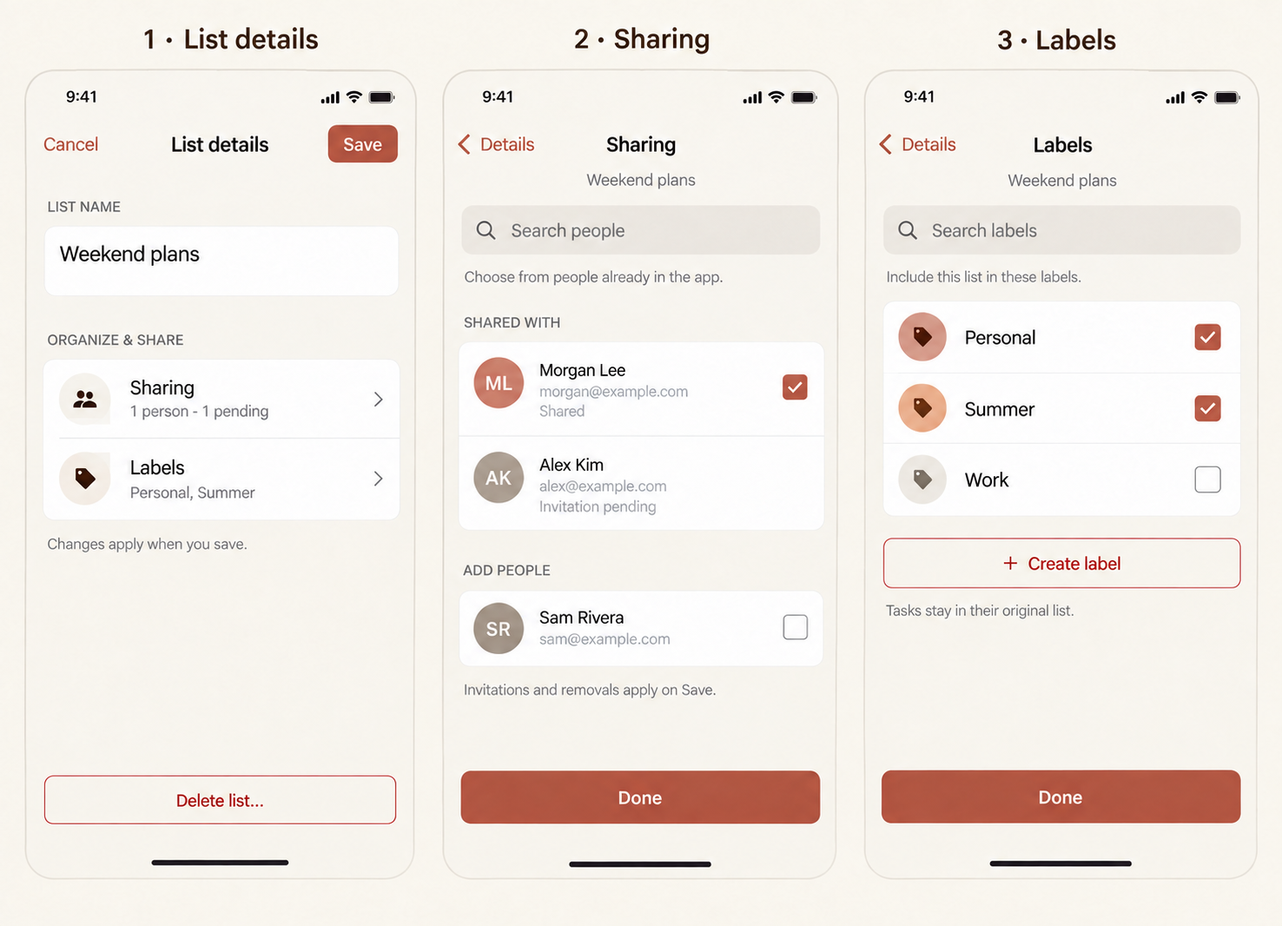
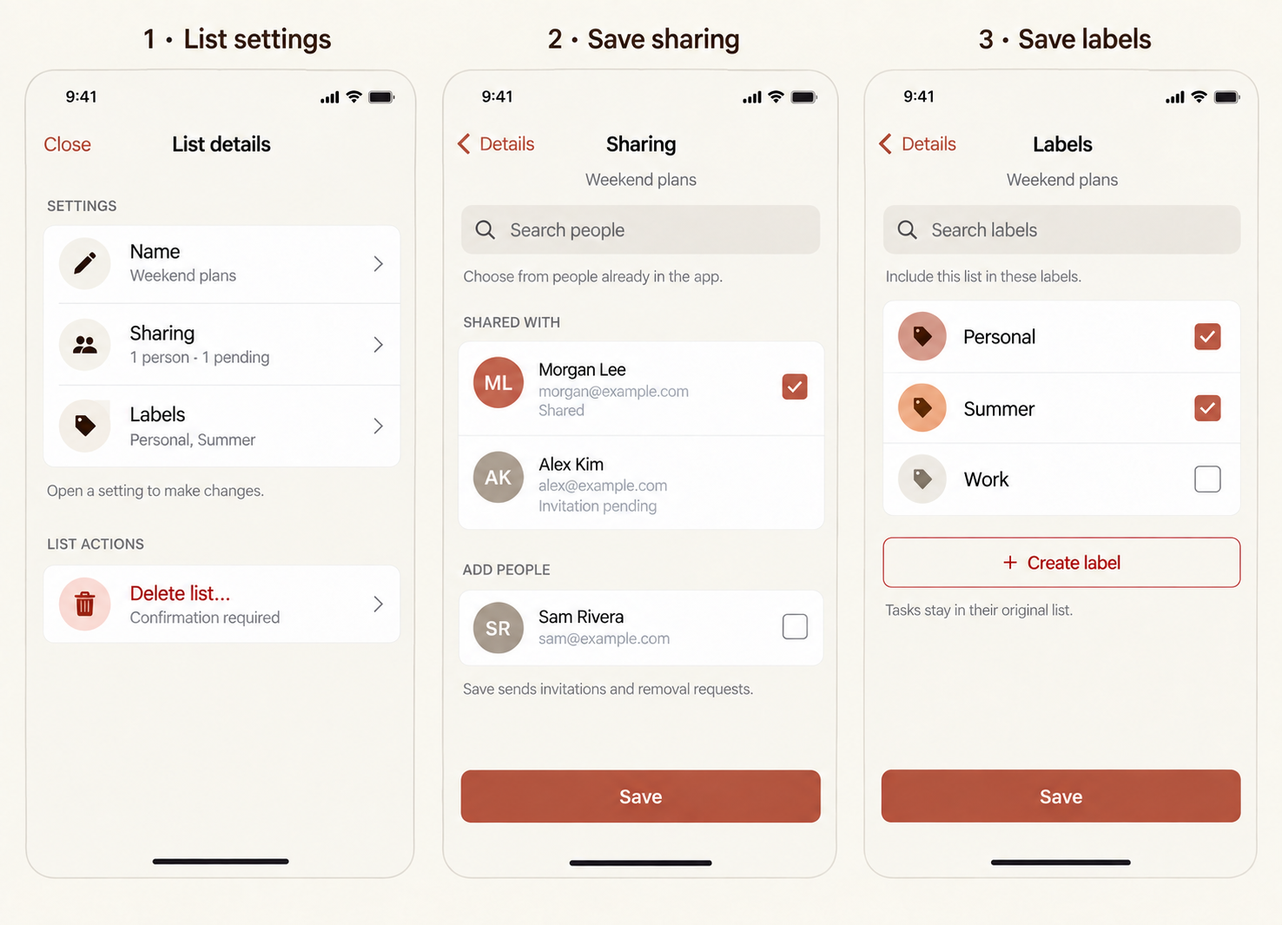
docs: revise list settings with independent saves and safer deletion

diff --git a/LIST_DETAILS_UX.md b/LIST_DETAILS_UX.md
@@ -2,7 +2,7 @@
 
 **Status: design proposal for review · September 16, 2026.** Documentation and freshly generated phone concepts only; no application changes. This follows the [task details design](TODO_DETAILS_UX.md) and its implemented editor conventions.
 
-Replace the crowded Edit List dialog with a full-height phone editor. Put the name and readable Sharing/Labels summaries on the first screen, with dedicated screens for longer choices. Keep one explicit Save boundary. Give deletion a named action and confirmation.
+Replace the crowded Edit List dialog with a full-height phone editor. Put the name and readable Sharing/Labels summaries on the first screen, with dedicated screens for longer choices. Save each setting on its own screen. The top level is a settings overview with Close and no Save action. Put deletion in a regular settings row that opens a separate confirmation screen.
 
 ## Review mock-ups
 
@@ -10,17 +10,17 @@ These are AI-generated concepts, not screenshots of implemented behavior. The wr
 
 ![Phone concepts: list details, sharing, and labels](docs/list-details-ux/01-details-sharing-labels.png)
 
-1. **List details:** an editable name, two large navigation rows, and a separated Delete list action. Opening the editor does not summon the keyboard.
-2. **Sharing:** searchable people, readable email addresses, explicit shared/pending states, and checkboxes that reflect the draft. Done returns to details without sending requests.
-3. **Labels:** searchable membership choices and a clear Create label entry. A label includes the list; it does not move its tasks.
+1. **List details:** Name, Sharing, and Labels are navigation rows showing saved values. Close exits; there is no root draft or Save. Delete list is a settings row under List actions, with “Confirmation required.”
+2. **Sharing:** searchable people, explicit shared/pending states, and draft checkboxes. Save sends this screen's changes and returns to details after successful submission.
+3. **Labels:** searchable membership choices. Save persists this screen's changes, independently of Name and Sharing.
 
-![Phone concepts: new label with keyboard, review before saving, and recoverable save failure](docs/list-details-ux/02-create-review-recovery.png)
+![Phone concepts: saving a name, creating a label inline, and confirming deletion](docs/list-details-ux/02-name-label-delete.png)
 
-4. **New label:** a small focused task with Add to draft above the keyboard. Nothing is created remotely yet.
-5. **Review:** show consequential pending changes before Save, particularly invitations, removals, and new labels.
-6. **Recovery:** retain remaining edits and report which changes succeeded. Retry only what is outstanding.
+4. **Name:** dedicated editor with Save above the keyboard. Saving changes the actual list name.
+5. **New label inside Labels:** an inline name field shares the Labels screen's Save. No nested “Done” or deferred root save.
+6. **Deletion confirmation:** show the saved list name, consequence, and Keep list before a destructive Delete list action. These buttons appear only on this dedicated confirmation screen.
 
-The boards illustrate separate states, not a single continuous dataset: the first board includes Alex's existing pending invitation; the second illustrates a new invitation to Sam. Active Save in the concepts represents a changed, valid draft. On first open it is disabled. The keyboard and geometry are illustrative; real viewport and accessibility checks remain implementation work.
+Active Save in the concepts represents a changed, valid setting. On first open it is disabled. The Labels keyboard state illustrates creating Summer before it exists; other states show a previously saved Summer label. Geometry and keyboard appearance are illustrative; real viewport and accessibility checks remain implementation work.
 
 ## Evidence and current problems
 
@@ -39,18 +39,22 @@ This is an existing desktop test artifact, not a new phone capture. Current sour
 
 ## Details screen
 
-Use the same phone shell as Task details: full height, safe-area-aware top navigation, scrollable body, warm neutrals, white groups, and restrained terracotta accents. On desktop/tablet use the same content in a bounded centered panel.
+Use the same phone shell and visual language as Task details: full height, safe-area-aware navigation, scrollable body, warm neutrals, white groups, and restrained terracotta accents. Unlike the task editor, this is a settings overview, not a combined form. On desktop/tablet use a bounded centered panel.
 
-- Top bar: Cancel, **List details**, Save. Save is disabled for unchanged or invalid drafts and while a submission is outstanding. Explain validation beside the field; announce saving status.
-- Persistent **List name** label. Allow wrapping and growth for long existing names. Trim boundary whitespace on Save and reject a whitespace-only value with “Enter a list name.” Do not impose a new uniqueness requirement.
-- **Sharing** row: “Not shared,” “1 person,” or “2 people · 1 pending,” excluding the current user. Distinguish invitations to send from invitations already pending. Counts come from confirmed/request state plus explicit draft changes, not all known users.
-- **Labels** row: “No labels,” or two names followed by “+N more.” Open the screen to read every name; never truncate the only accessible description.
-- **On Save** summary appears for invitations, removals, and new labels. Name affected people/labels; for many changes, provide an expandable list. Ordinary rename or membership-only edits can remain visible in their fields.
-- Put **Delete list…** after the normal content, visually separated. It scrolls with content on short screens rather than occupying a permanent danger footer.
+- Top bar: **Close**, **List details**, no right-hand action. Closing never saves, cancels, or reverts changes previously saved in a setting.
+- **Name** row shows the saved list name and opens a dedicated Name editor. Long names wrap.
+- **Sharing** row shows “Not shared,” “1 person,” or “2 people · 1 pending,” excluding the current user. Counts reflect confirmed/request state, never edits waiting in another screen.
+- **Labels** row shows “No labels,” or two names followed by “+N more.” Open the screen to read every name; never truncate the only accessible description.
+- No root “On Save” summary, editable fields, unsaved badge, or bottom completion button. After a successful child Save, refresh the relevant summary and announce success.
+- Below the settings group, use a modest section gap and **List actions** heading. **Delete list…** is an ordinary white navigation row with a red trash icon/text, “Confirmation required” secondary text, and a chevron. Match other rows' height and padding. Do not style it as an outlined/filled full-width button, push it to the bottom with a spacer, or pin it to a footer. Leave natural empty space below it.
+
+## Name screen
+
+Back to Details, title **Name**, persistent **List name** label, growing input, and one **Save** button above the keyboard. Trim boundary whitespace on Save and reject whitespace-only input with “Enter a list name.” Do not introduce a uniqueness requirement. Save persists only the name, returns to Details, and updates the summary/sidebar/title. Back with unsaved edits offers Keep editing / Discard changes; neither choice reverses an earlier saved setting. No autosave on blur or navigation.
 
 ## Sharing screen
 
-Back to Details abandons this screen's edits; Done applies them to the parent draft. Header, context name, search, and a single scrolling results body replace the nested scrollbox. Search matches known users' names and email addresses; it never sends an invitation or searches an external directory. Clear search without losing selections. Use stable user IDs internally and the actual email for compatibility with current helpers.
+Save persists only sharing changes and returns to Details after submission succeeds. Back with unsaved edits offers Keep editing / Discard changes. Header, context name, search, and a single scrolling results body replace the nested scrollbox. Search matches known users' names and email addresses; it never sends an invitation or searches an external directory. Clear search without losing selections. Use stable user IDs internally and the actual email for compatibility with current helpers.
 
 | State | Presentation and behavior |
 | --- | --- |
@@ -61,53 +65,53 @@ Back to Details abandons this screen's edits; Done applies them to the parent dr
 | Removal staged | Unchecked selection and “Remove on Save.” Rechecking restores the original state. |
 | Available person | Name/email and unchecked checkbox. Exclude the current user. |
 
-Group current shared/pending people before available people. Keep rows stable while toggling, and expose full-row targets with semantic checkboxes. Search filters both groups and announces the result count. Use “No matching people” for a search miss and “No other people available yet” for an empty directory; keep Done available. Fall back to email when a name is missing and initials when a photo is missing. If identity cannot be resolved, show an unavailable row and explain why it cannot be selected.
+Group current shared/pending people before available people. Keep rows stable while toggling, and expose full-row targets with semantic checkboxes. Search filters both groups and announces the result count. Use “No matching people” for a search miss and “No other people available yet” for an empty directory; keep Back available and disable Save until there is a valid change. Fall back to email when a name is missing and initials when a photo is missing. If identity cannot be resolved, show an unavailable row and explain why it cannot be selected.
 
 Accepted/rejected and pending invitation/removal states must come from request type and outcome, not one generic boolean. Refresh confirmed status without erasing local selections; resolve conflicting changes before Save. This screen describes relationships observable to the current account through existing request history. Do not present it as an authoritative global access roster or invent owner/editor/viewer roles.
 
-Sharing remains the existing app-to-app invitation flow. No arbitrary email invitation, share link, notification preference, role administration, immediate revocation guarantee, or cancellation of already-sent requests is introduced.
+Show consequential invitations/removals in an “On Save” summary on this screen before submission, naming affected people. Sharing remains the existing app-to-app invitation flow. No arbitrary email invitation, share link, notification preference, role administration, immediate revocation guarantee, or cancellation of already-sent requests is introduced.
 
 ## Labels and new label
 
 Show the same eligible labels as today: exclude fully hidden labels, preserve existing hidden-but-browsable eligibility, and keep membership in excluded labels untouched. Selection means the current list is explicitly included in that label's query. Preserve unrelated predicates, ordering, and visibility; removing this explicit inclusion must not promise that other query predicates cannot still match the list.
 
-Search labels by name, keep selection stable across filtering, and show “No matching labels” when appropriate. Empty state: “No labels yet” with Create label. Each row is a full-width checkbox. Done accepts this membership subdraft; Back discards it, including labels created during that visit.
+Search labels by name, keep selection stable across filtering, and show “No matching labels” when appropriate. Empty state: “No labels yet” with Create label. Each row is a full-width checkbox. **Save** persists memberships and any new labels from this screen, then returns to Details. Back with changes asks whether to discard only this screen's unsaved work.
 
-Create label opens a child screen with Back to Labels, Label name, and **Add to draft**. Require a non-whitespace name, preserve input on error, and use “Enter a label name.” Trim on submission. Existing duplicate names are allowed by the model: show a matching existing label with “Use existing” as an option, but do not silently merge identities or block intentional duplicates.
+Create label expands an inline composer within Labels, with **New label**, a name input, and **Cancel new label**. The existing Labels **Save** remains the sole persistence action, above the keyboard; there is no extra child screen, Add to draft, or Done button. Copy: “Save creates this label and includes the list.” Require a non-whitespace name, preserve input on error, and show “Enter a label name.” Trim on submission. Allow one new label per save; the user can reopen Labels to create another.
 
-Add to draft returns to Labels with the new label selected and marked “New.” This does not write data. Unselecting a new label means it will not be created on Save. Reopening the child screens retains accepted parent-draft choices. Cancelling Details creates no labels and changes no query predicates.
+Existing duplicate names are allowed by the model: offer a matching existing label with “Use existing,” but do not silently merge identities or block intentional duplicates. Use existing selects that label and closes the composer; Save is still required. Cancel new label clears only the composer and preserves other unsaved membership choices. Leaving Labels without saving creates nothing and changes no membership. After Labels Save, closing Details does not undo the created label or memberships.
 
-When editing a label itself, title the root **Label details**, use **Label name** and **Delete label…**, and omit the Labels membership row as today. Retain existing sharing capabilities, with copy identifying a label; do not imply sharing a label automatically grants access to all underlying lists. Renaming must preserve label type and visibility. Pinning, visibility settings, and query editing stay in their existing locations.
+When editing a label itself, title the root **Label details**, use a Name row with a **Label name** field in its editor and **Delete label…**, and omit the Labels membership row as today. Retain existing sharing capabilities, with copy identifying a label; do not imply sharing a label automatically grants access to all underlying lists. Renaming must preserve label type and visibility. Pinning, visibility settings, and query editing stay in their existing locations.
 
 ## Save, cancel, synchronization, and failure
 
-Capture the target document ID/type and initial values when opening. One parent draft owns name, sharing changes, memberships, and new labels. Child screens own reversible subdrafts. No persistence occurs before Save, except a separately confirmed deletion.
+Capture the target document ID/type when opening. The root has no editable draft. Each setting initializes its own draft from current saved values when entered; drafts never span Name, Sharing, and Labels. Save is disabled when unchanged, invalid, or submitting. It persists only that setting. Saved changes take effect immediately, with no second confirmation at Details.
 
-Cancel/system Back/Escape at Details closes an unchanged editor. A dirty draft asks **Discard changes?** with Keep editing and Discard changes. Child Back abandons only that child subdraft. Background taps and swipe gestures must not bypass these rules. Restore focus to the invoking edit control after close.
+Close/system Back/Escape at Details exits directly. Back/system Back/Escape from a dirty setting asks **Discard changes?** with Keep editing and Discard changes. Clean settings return directly. Discard affects only unsaved changes on the current screen, never settings saved earlier. Background taps and swipe gestures must not bypass these rules. Restore focus to the setting row on return and to the invoking edit control after close.
 
 Save validates against current permissions/availability and computes changes from the latest confirmed baseline. Disable duplicate submission. Reuse existing action types and request semantics, but make completion/failure observable: the current fire-and-forget sharing transport and swallowed errors need explicit results before this UI can meet its promise.
 
-Do not assume all writes are one transaction: list actions, label creation/membership, and outgoing requests span separate records and processing stages. Track stable operation identities and confirmed outcomes. On partial failure show exactly what saved, retain the unfinished draft, and offer **Retry remaining changes** without duplicate invitations, duplicate labels, or repeated successful actions. After partial success, Cancel cannot undo confirmed writes; say “Saved changes will remain” when offering to discard the remainder.
+Even within one setting, do not assume all writes are one transaction: multiple sharing requests or label creation/membership can span separate records and processing stages. A Name save must never submit pending sharing or label operations. Track stable operation identities and confirmed outcomes. On partial failure stay on that setting, show exactly what saved (for example, “Invitation to Sam sent. Invitation to Alex could not be sent”), retain the unfinished draft, and offer **Retry remaining changes** without duplicate invitations, duplicate labels, or repeated successful actions. After partial success, leaving the setting cannot undo confirmed writes; say “Saved changes will remain” when offering to discard the remainder.
 
-Close only once intended writes have reached the implementation's documented durable success boundary. Invitation acceptance is separate: “Invitation sent” does not mean “Shared.” While offline, show “Waiting for connection” and retain the draft unless durable local queue status is actually known. Never report server success based on a timeout. An outstanding submission must not be dismissible as though nothing was written; offer a clear status and prevent conflicting resubmission.
+Return from a setting to Details only once its intended writes have reached the implementation's documented durable success boundary. Invitation acceptance is separate: “Invitation sent” does not mean “Shared.” While offline, show “Waiting for connection” and retain the draft unless durable local queue status is actually known. Never report server success based on a timeout. An outstanding submission must not be dismissible as though nothing was written; offer a clear status and prevent conflicting resubmission.
 
 Remote changes must not overwrite active fields. Refresh untouched state, show a conflict for locally edited fields with Reload latest / Keep my changes, and require explicit resolution before writing. If the list or editing access disappears, disable Save, retain readable draft contents, and explain that editing is unavailable. Incoming share acceptance should update status without creating another invitation.
 
 ## Deletion is a separate confirmed action
 
-Delete list… opens a confirmation screen within the editor, with the full saved target name, Keep list, and a clearly destructive Delete list button. Opening it does not save or discard the draft. Back/Keep list returns unchanged. The confirmation explains that unsaved edits will be discarded only after successful deletion; a failure keeps the editor and draft available.
+The Delete list… settings row only opens a confirmation screen, with the full saved target name and consequence. Place **Keep list** first and a clearly destructive **Delete list** button below it, directly after the explanation rather than in the usual bottom Save position. Focus Keep list by default; never trigger deletion on entry or Enter from an unrelated control; keyboard activation works only when the explicit Delete list button is focused. Back/Keep list returns to Details unchanged. Because deletion is reached from the overview, there is no cross-setting draft to save or discard. A failure keeps the confirmation open with Retry/Keep list available.
 
 Current deletion appends `delete_list` to the list action stream and removes the list from replayed list metadata; the reducer does not itself erase task documents. This is not evidence of permanent erasure, a private “leave list” operation, or a recoverable archive. Do not promise any of those outcomes.
 
-Before shipping, verify deletion replay for both participants in a shared list, related label navigation, and reopening/reload. Proposed confirmation copy: **Delete “Weekend plans”?** / “This removes the list from navigation for people who receive this list's updates. Unsaved changes will be discarded.” Confirm that scope with the two-user story before finalizing the wording. Do not add “all tasks are permanently deleted” or an Undo action without corresponding behavior. If that scope cannot be established, deletion remains an implementation release blocker rather than shipping misleading copy.
+Before shipping, verify deletion replay for both participants in a shared list, related label navigation, and reopening/reload. Proposed confirmation copy: **Delete “Weekend plans”?** / “This removes the list from navigation for people who receive this list's updates.” Confirm that scope with the two-user story before finalizing the wording. Do not add “all tasks are permanently deleted” or an Undo action without corresponding behavior. If that scope cannot be established, deletion remains an implementation release blocker rather than shipping misleading copy.
 
 For a label use “Delete label,” and verify that source lists/tasks remain intact. On success close and navigate to an available list or Profile as appropriate; do not leave a dangling active route. Failure stays actionable and never displays success prematurely.
 
 ## Phone and accessibility requirements
 
 - Baseline 390 × 844 CSS pixels; review 320 × 568, 360 × 800, landscape, and 200% text. Keep 16px side padding where space permits, about 17px body text, and at least 48px touch targets.
-- Header stays reachable; body scrolls. Done/Add to draft stays above the visible software keyboard, with the focused field and inline errors scrollable into view. Never shrink text or hide controls to match the board.
-- No automatic keyboard on root, Sharing, or Labels. Focus an announced heading on entry; the dedicated New label flow can focus its sole input. Return focus to the invoking row/button after child navigation.
+- Header stays reachable; body scrolls. Each setting’s Save stays above the visible software keyboard, with the focused field and inline errors scrollable into view. Never shrink text or hide controls to match the board.
+- No automatic keyboard on root, Sharing, or Labels. Focus an announced heading on entry; the Name editor and inline New label composer can focus their inputs. Return focus to the invoking row/button after child navigation.
 - Long names/emails wrap without horizontal page scrolling. Counts, pending states, errors, and checkbox selection are conveyed by text/semantics as well as color.
 - Trap modal focus, keep background inert, support keyboard and system Back, announce result/status changes politely, and honor reduced motion. Avoid nesting dialogs for child flows or confirmations.
 - Match light/dark app themes and verify contrast. Real iOS/Android keyboard and assistive-technology review supplements browser viewport coverage.
@@ -119,19 +123,20 @@ Use the project's [E2E guide](E2E_GUIDE.md): deterministic emulator data, assert
 | Story | Required evidence |
 | --- | --- |
 | Rename and reopen | Long name on a small phone; invalid blank input; valid Save survives reload and changes the sidebar/title. |
-| Draft navigation | Sharing/Labels Done affects only the parent draft; child Back rolls back; root Discard leaves every persisted record unchanged, including new labels. |
+| Independent saves | Save Name, then discard edits in Sharing: the saved name survives. Save Sharing or Labels and close Details: changes survive reload without any root Save. Root has only Close; all editing screens use Save. |
+| Draft navigation | Dirty setting Back confirms discard; clean Back returns directly. Cancel new label preserves other membership edits; discarding Labels creates no label. |
 | Share between two users | Search, stage invitation, review, Save, pending status, recipient accept, both see edits; actual email identity and selected checkboxes stay correct. |
 | Sharing outcomes | Rejected invitation, pending invitation, pending removal, staged removal undo, and completed removal; no duplicate request on reopen/retry. Verify actual recipient behavior. |
-| Label membership | Add/remove explicit membership, create new label, unselect new label, duplicate-name choice; unrelated query predicates and source tasks survive. |
+| Label membership | Add/remove explicit membership, create new label inline, cancel its composer, duplicate-name choice; unrelated query predicates and source tasks survive. |
 | Labels and visibility | Hidden/fully hidden eligibility; rename label preserves type/visibility; no recursive membership editor or accidental source-list access grant. |
 | Scale and empty states | Empty directories, no search matches, many users/labels, missing names/photos, long email and label names; selections survive search. |
 | Recovery | Inject failure after one successful operation; exact progress shown; retry completes only remaining operations; reload proves no duplicated labels or invites. |
 | Concurrent edits/offline | Remote rename/removal/access loss and incoming acceptance while dirty; explicit conflict handling; offline status does not claim server success. |
-| Deletion | Keep list preserves draft; failed delete retains it; successful delete navigates safely; two-user replay establishes scope; deleting label leaves source tasks intact. |
+| Deletion | Delete settings row only navigates; Keep list causes no write; failed delete stays on confirmation; successful delete navigates safely; two-user replay establishes scope; deleting label leaves source tasks intact. |
 | Phone navigation | Small portrait, landscape, enlarged text, keyboard focus, system Back, focus restoration, dark theme; manual real-device keyboard/screen-reader checklist. |
 
 ## Decisions for this review
 
-Approve the full-height editor with dedicated Sharing/Labels screens; one Save boundary with reversible child drafts; readable request states without unsupported invitation controls; deferred label creation; and confirmed deletion with verified scope. Implementation should reuse the task editor's proven navigation/focus patterns while keeping list-specific multi-operation persistence explicit.
+Approve the settings overview without a root Save; independent Name/Sharing/Labels saves; readable request states without unsupported invitation controls; inline creation saved by Labels; and a regular Delete list settings row leading to a dedicated confirmation with verified scope. Implementation should reuse the task editor's proven navigation/focus patterns while keeping list-specific multi-operation persistence explicit.
 
 Fresh concepts were generated using the built-in image generation tool. [Exact generation and correction prompts](docs/list-details-ux/generation-prompts.md) are committed alongside both PNG boards. Review validation covers source findings, image inspection, local links, and a documentation-only diff. No app behavior or E2E implementation is changed in this PR.

diff --git a/docs/list-details-ux/generation-prompts.md b/docs/list-details-ux/generation-prompts.md
@@ -1,27 +1,29 @@
-# Phone mock-up generation prompts
+# Phone mock-up revision prompts
 
-Generated September 16, 2026 with the built-in image generation tool. Mode: fresh generation for each board, followed by a targeted edit of Board 1 to remove unsupported invitation cancellation. Written design governs exact behavior.
+Mode: built-in image generation, editing the original review boards. The original assets and generation prompts remain in commit `d52d9f5`. These revisions replace the published boards to use independent setting saves and a Delete list settings row. The written specification governs behavior and exact sizing.
 
-## Board 1: initial generation
+## Board 1
 
-Use case: ui-mockup. Create a high fidelity landscape design review board with THREE flat phone screens side by side, each 390x844 logical points. No perspective or hardware. Warm ivory background, white grouped cards, dark brown text, muted terracotta accent, system sans typography 17pt, 48pt touch targets. Same coherent native-feeling Todo app design throughout. Status bars and home indicators. Outside headings "1 · List details", "2 · Sharing", "3 · Labels".
-Phone 1 full height editor: top bar "Cancel", "List details", filled terracotta "Save". Persistent label "LIST NAME", multiline field "Weekend plans". Group heading "ORGANIZE & SHARE". Large row people icon "Sharing", secondary "1 person · 1 pending", chevron. Large row tag icon "Labels", secondary "Personal, Summer", chevron. Helper "Changes apply when you save." Spacious lower area, separated red outlined wide button "Delete list…" near bottom.
-Phone 2 top back "Details", title "Sharing". Context "Weekend plans". Search field "Search people". Helper "Choose from people already in the app." White card section "SHARED WITH": avatar ML, "Morgan Lee", "morgan@example.com", secondary "Shared", trailing checked checkbox. Second row avatar AK, "Alex Kim", "alex@example.com", text status "Invitation pending", trailing small "Cancel invite" button. Section "ADD PEOPLE": avatar SR, "Sam Rivera", "sam@example.com", trailing unchecked checkbox. Below helper "Invitations and removals apply on Save." Bottom pinned terracotta wide "Done".
-Phone 3 top back "Details", title "Labels", context "Weekend plans". Search field "Search labels". Helper "Include this list in these labels." Three full width white rows with checkboxes: "Personal" checked, "Summer" checked, "Work" unchecked. Below outlined full width "+ Create label" button. Helper "Tasks stay in their original list." Bottom pinned terracotta wide "Done".
-Constraints: exact legible text; realistic spacious layout, no ownership badges, no roles, no arbitrary email invite input, no drag handles, no nested floating dialog. Design proposal, not a running app screenshot.
+Edit target: original `01-details-sharing-labels.png` from `d52d9f5`. Output: `01-details-sharing-labels.png`.
 
-## Board 1: correction
-
-Input: generated Board 1. Final output: `01-details-sharing-labels.png`.
-
-Edit this design board only in the middle Sharing phone: remove the 'Cancel invite' button completely from Alex Kim's row, leave that trailing area empty. Preserve Alex Kim, alex@example.com and Invitation pending as a read-only text status. Pending invitations cannot be cancelled in this proposal. Preserve all other text, three-screen layout, spacing, colors, and design exactly.
+Use case: ui-mockup. Revise attached three-phone board, preserving palette, typography, high fidelity flat phone format and overall visual style. Entire new interaction: settings hub has no Save; each child screen saves its own changes. Exact outside headings "1 · List settings", "2 · Save sharing", "3 · Save labels".
+Phone1: top left "Close", centered "List details", no right action. No editable field. Group heading SETTINGS and three white full-width navigation rows: pencil icon "Name" with second line "Weekend plans" chevron; people icon "Sharing" second line "1 person · 1 pending" chevron; tag icon "Labels" second line "Personal, Summer" chevron. Helper "Open a setting to make changes." Then only 24px gap, heading "LIST ACTIONS", ordinary white settings row with red trash icon, red label "Delete list…", gray secondary "Confirmation required", chevron. This row has same geometry as other settings; NO outlined or filled destructive button, NO footer action; leave generous empty space below row through home indicator.
+Phone2: title Sharing, back Details; preserve searchable known people, Morgan shared checked, Alex invitation pending read-only, Sam unchecked. Helper "Save sends invitations and removal requests." Bottom primary button "Save", replacing Done. No reference to root Save or draft applied elsewhere.
+Phone3: title Labels back Details; preserve search, Personal and Summer checked Work unchecked, Create label control and source-task helper. Bottom primary button "Save", replacing Done.
+Do not put Delete list on any child screen. No Done text anywhere. Keep legibility, realistic 48px targets, no owner roles or invite cancellation.
 
 ## Board 2
 
-Output: `02-create-review-recovery.png`.
+Edit target: original `02-create-review-recovery.png` from `d52d9f5`. Output: `02-name-label-delete.png`.
 
-Use case: ui-mockup. High fidelity UX design review board THREE flat phone screens 390x844 logical points each side by side, no hardware/perspective. Warm ivory background, white cards, dark brown system sans text, muted terracotta primary buttons. 17pt body, 48pt controls, clear readable typography. Status bars, safe bottom home indicators. Outside headings "4 · Create a label", "5 · Review changes", "6 · Save needs attention".
-Phone 4 full height editor top back "Labels", center "New label". Context "For Weekend plans". Field persistent label "LABEL NAME", focused input "Summer". Helper "This label will include Weekend plans when you save." Bottom primary "Add to draft" immediately above realistic iPhone alphabetic keyboard. Header and field remain visible, no modal over modal.
-Phone 5 top Cancel / List details / filled Save. LIST NAME field "Weekend plans". White row "Sharing", secondary "1 person · 1 invitation to send", chevron. White row "Labels", secondary "Personal, Summer", chevron. Pale card heading "ON SAVE", lines "Invite Sam Rivera", "Create Summer and include this list". Helper "Done on a sub-screen only updates this draft." Separated red outline "Delete list…" near bottom.
-Phone 6 top Cancel / List details / disabled Save. LIST NAME "Weekend plans". Rows Sharing and Labels, same style as phone5. Inline pale error card heading "Some changes need attention", body "Name saved. Sharing could not be updated.", secondary "Your remaining changes are still here.", prominent "Retry remaining changes" button. Small helper "Review changes before leaving." No keyboard, no toast-only failure, no success checkmark.
-Constraints: not screenshots of running code; exact readable text; coherent restrained design; spacious production-plausible mobile forms; no arbitrary email invitations, permissions roles, unsupported data controls.
+Use case: ui-mockup. Replace all three screen contents on attached board for revised Todo list settings. Preserve flat 390x844 phone scale, warm ivory/white surfaces, brown typography, terracotta primary actions, realistic touch controls and crisp exact text. Outside headings "4 · Save a name", "5 · Create within Labels", "6 · Confirm deletion".
+Phone4: back "Details", title "Name". Label "LIST NAME", focused multiline field "Weekend adventures". Helper "Save updates this list's name." Wide terracotta "Save" pinned immediately above realistic iPhone alphabetic keyboard. No root save, no Delete.
+Phone5: back "Details", title "Labels", context "Weekend plans". Compact white selectable rows "Personal" checked, "Work" unchecked. Below inline creation card with title "NEW LABEL", focused field "Summer", helper "Save creates this label and includes the list.", text control "Cancel new label". Single wide terracotta "Save" pinned above realistic alphabetic keyboard. No second Add to draft / Done / Save button. Inline composer is part of Labels, not another screen.
+Phone6: back "Details", title "Delete list". Upper content full heading 'Delete “Weekend plans”?' with small trash icon. Body "This removes the list from navigation for people who receive this list's updates." Quiet note "Review the list name before deleting." Immediately below body (NOT pinned to bottom), prominent neutral white outlined "Keep list" button and below it clearly red "Delete list" button. Large blank lower half. This is a dedicated confirmation screen reached from a settings row, NOT the settings hub. No Save, no Done, no editable fields. Deletion is never a completion action.
+All text readable, all controls fit above keyboard, no perspective or decorative content.
+
+### Board 2 correction
+
+Edit target: revised Board 2 above.
+
+Change only the rightmost phone's 'Keep list' button: use dark brown/charcoal text and a light neutral gray border on white, not red text or border. Keep 'Delete list' red. Preserve every other element, text, screen, layout, keyboard and color exactly.
